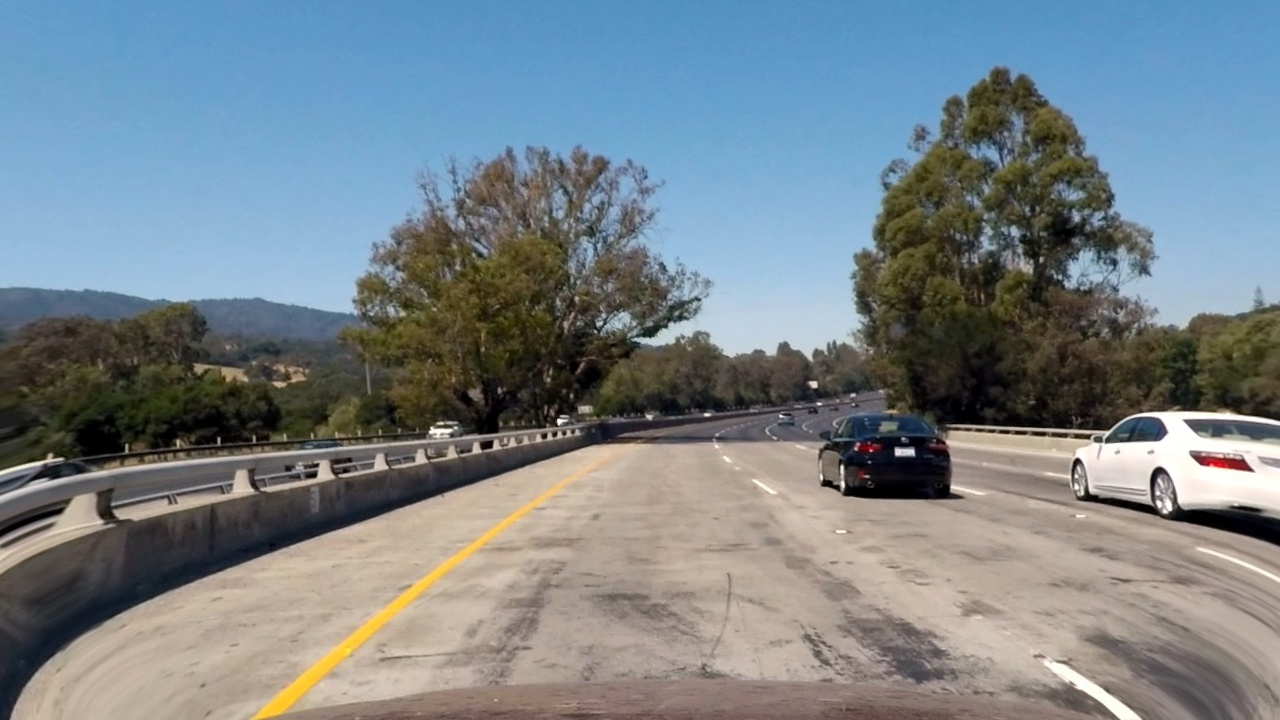
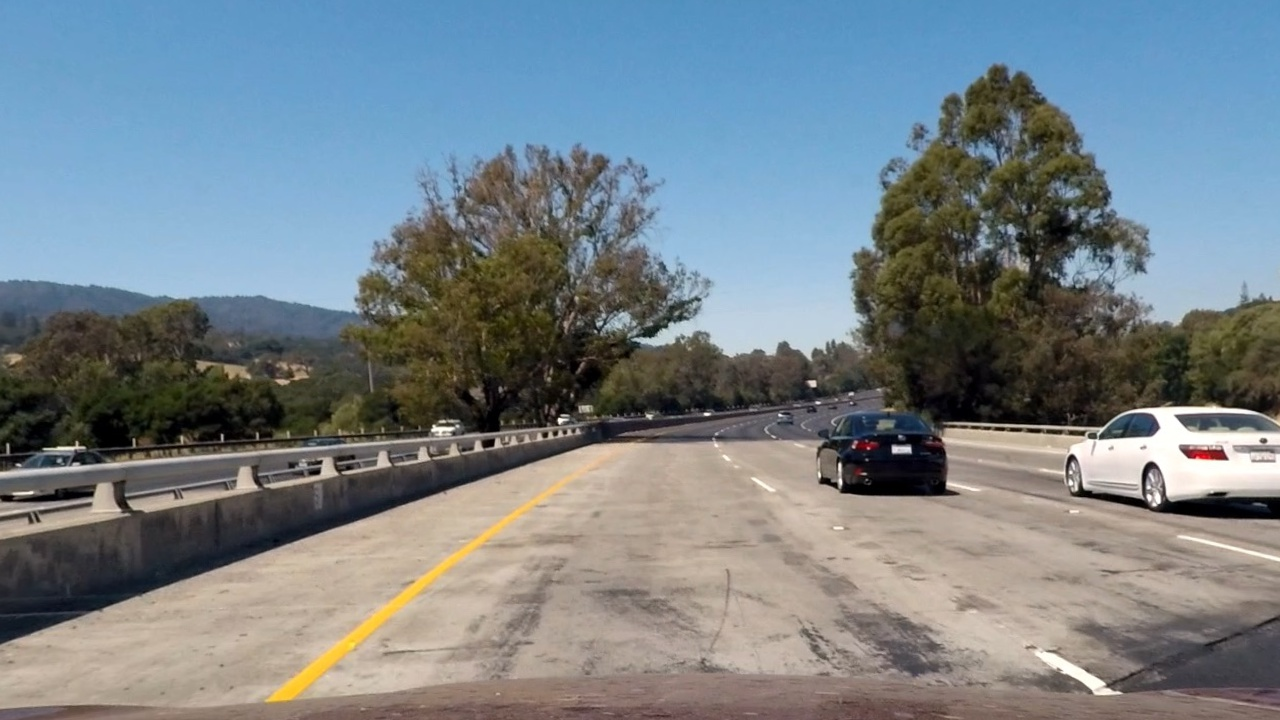
Undistort images given calibration

diff --git a/calibrate.py b/calibrate.py
@@ -10,9 +10,9 @@ import matplotlib.pyplot as plt
 
 def calibrate_cam():
   # set object points to 0's to start
-  objp = np.zeros((6*8, 3), np.float32)
+  objp = np.zeros((6*9, 3), np.float32)
   # set objp to the coordinates of the grid
-  objp[:,:2] = np.mgrid[0:8, 0:6].T.reshape(-1, 2)
+  objp[:,:2] = np.mgrid[0:9, 0:6].T.reshape(-1, 2)
   # print('objp .shape', objp[9])
 
   #store the the object points and image points
@@ -33,7 +33,7 @@ def calibrate_cam():
     #get the corners 
     #ret is boolean true false if found corners
     ret, corners = cv2.findChessboardCorners(gray, (9,6), None)
-    print('ret is', ret, 'at idx', idx, 'img name', fname)
+    # print('ret is', ret, 'at idx', idx, 'img name', fname)
     #if found, add object and image points
     if ret == True:
       found_count += 1
@@ -47,37 +47,36 @@ def calibrate_cam():
       cv2.imshow('img', img)
       cv2.waitKey(500)
 
-  print('img count is', img_count)
-  print('found count is', found_count)
+  # print('img count is', img_count)
+  # print('found count is', found_count)
   cv2.destroyAllWindows()
 
+  print('objpoints shape', len(objpoints[0]))
+  print('imgpoints shape', len(imgpoints[0]))
   return objpoints, imgpoints
 
 
-def undistort(objpoints, imgpoints):
+def undist(objpoints, imgpoints):
   img = cv2.imread('test_images/test1.jpg')
   img_size = (img.shape[1], img.shape[0])
 
   #does it return, what is the distance, what are the r and t vals
   ret, mtx, dist, rvecs, tvecs = cv2.calibrateCamera(objpoints, imgpoints, img_size, None, None)
-
   #undistort it
   dst = cv2.undistort(img, mtx, dist, None, mtx)
   cv2.imwrite('test_images/test1_undist.jpg', dst)
-
   dist_pickle = {}
   dist_pickle["mtx"] = mtx
   dist_pickle["dist"] = dist
   pickle.dump( dist_pickle, open("test_dist_pickle.p", "wb"))
-
-  f, (ax1, ax2) = plt.subplots(1, 2, figsize=(20, 10))
-  ax1.imshow(img)
-  ax1.set_title('Original Image', fontsize=30)
-  ax2.imshow(dst)
-  ax2.set_title('Undistoredted Image', fontsize=30)
+  # f, (ax1, ax2) = plt.subplots(1, 2, figsize=(20, 10))
+  # ax1.imshow(img)
+  # ax1.set_title('Original Image', fontsize=30)
+  # ax2.imshow(dst)
+  # ax2.set_title('Undistoredted Image', fontsize=30)
 
 if __name__ == '__main__':
   objpoints, imgpoints = calibrate_cam()
   print('calibration complete')
-  # undistort(objpoints, imgpoints)
+  undist(objpoints, imgpoints)
   print('undistort complete')
